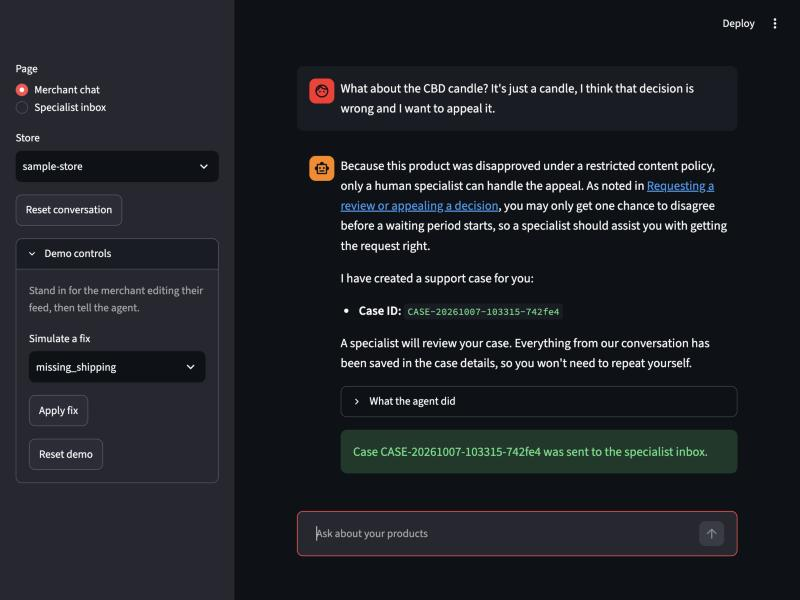
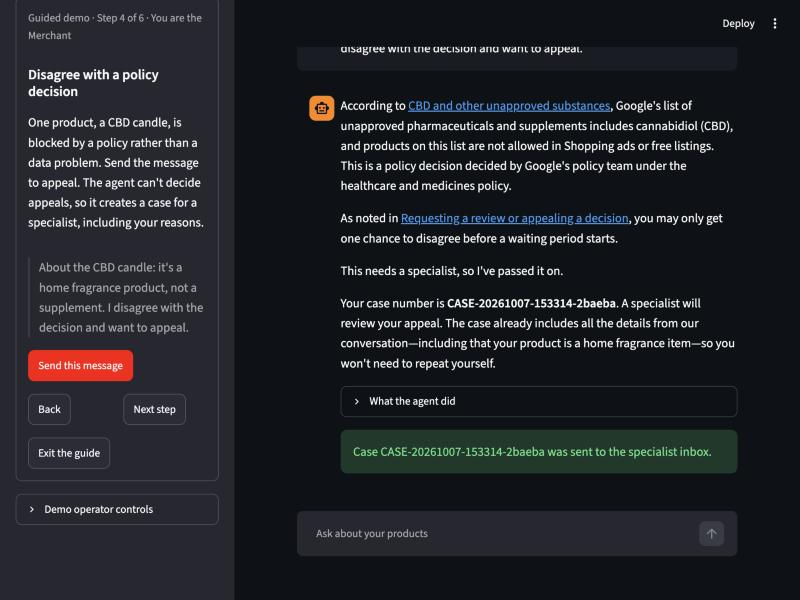
Move the guide into the sidebar and refresh the screenshots
Checking the walkthrough in a browser showed that after a long agent
reply the step panel scrolled out of view, so the visitor had to scroll
back up to find Next step. The panel now lives in the sidebar, which
stays put while the chat scrolls. The fix notice now says what happened
in plain words instead of showing the issue code. Screenshots are
retaken from a live guided run: the landing page, step 1 with a
grounded reply naming all three products, the appeal handoff that
records the merchant's argument, and the case in the inbox with the
merchant's reasons. Keyboard check: Tab reaches Start the guided demo
and Enter starts it.

diff --git a/app/guided_demo.py b/app/guided_demo.py
@@ -37,16 +37,17 @@ def queue_message(text: str) -> None:
 
 def apply_guide_fix(issue: IssueType) -> None:
     fixed = demo.apply_fix(st.session_state.store, issue)
-    st.session_state.guide_notice = f"Fixed {issue.value} on {', '.join(fixed)}."
+    products = ", ".join(fixed) or "no products"
+    st.session_state.guide_notice = f"Done: the merchant's product data now fixes {products}."
 
 
 def guide_panel(page: str) -> None:
-    """The current step: who you are, what to do, and buttons to do it or move on."""
+    """The current step, in the sidebar so it stays in view while the chat scrolls."""
     number = st.session_state.get("guide_step")
     if not number:
         return
     current = step(number)
-    with st.container(border=True):
+    with st.sidebar.container(border=True):
         st.caption(f"Guided demo · Step {number} of {len(STEPS)} · You are the {current.role}")
         st.subheader(current.title)
         st.markdown(current.body)
@@ -70,13 +71,13 @@ def guide_panel(page: str) -> None:
                 on_click=queue_message,
                 args=(current.message,),
             )
-        back, forward, leave = st.columns(3)
+        back, forward = st.columns(2)
         back.button(
             "Back", key="guide_back", disabled=number == 1, on_click=go_to_step, args=(number - 1,)
         )
         if number < len(STEPS):
             forward.button("Next step", key="guide_next", on_click=go_to_step, args=(number + 1,))
-        leave.button("Exit the guide", key="guide_exit", on_click=exit_guide)
+        st.button("Exit the guide", key="guide_exit", on_click=exit_guide)
 
 
 def landing_page() -> None:

diff --git a/app/streamlit_app.py b/app/streamlit_app.py
@@ -63,7 +63,6 @@ def merchant_chat_page(store_id: str) -> None:
     session = current_chat(store_id)
     st.title("Merchant chat")
     st.caption(f"You are the merchant: the owner of **{store_id}**. Ask about your products.")
-    guide_panel("Merchant chat")
     for message in st.session_state.messages:
         show_message(message)
     queued = st.session_state.pop("pending_message", "")
@@ -74,7 +73,6 @@ def merchant_chat_page(store_id: str) -> None:
 def specialist_inbox_page() -> None:
     st.title("Specialist inbox")
     st.caption("You are a support specialist at Google, picking up cases the agent handed over.")
-    guide_panel("Specialist inbox")
     cases = list_cases()
     if not cases:
         st.info("No cases yet. Cases appear here when the agent hands a conversation off.")
@@ -101,6 +99,7 @@ page = st.sidebar.radio("Page", PAGES, key="page")
 store_id = st.sidebar.selectbox("Store", list_stores(), key="store")
 if page == "Merchant chat" and st.sidebar.button("Reset conversation", key="reset_conversation"):
     end_conversation()
+guide_panel(page)
 
 with st.sidebar.expander("Demo operator controls", expanded=False):
     st.caption(ROLES["Demo operator"])
